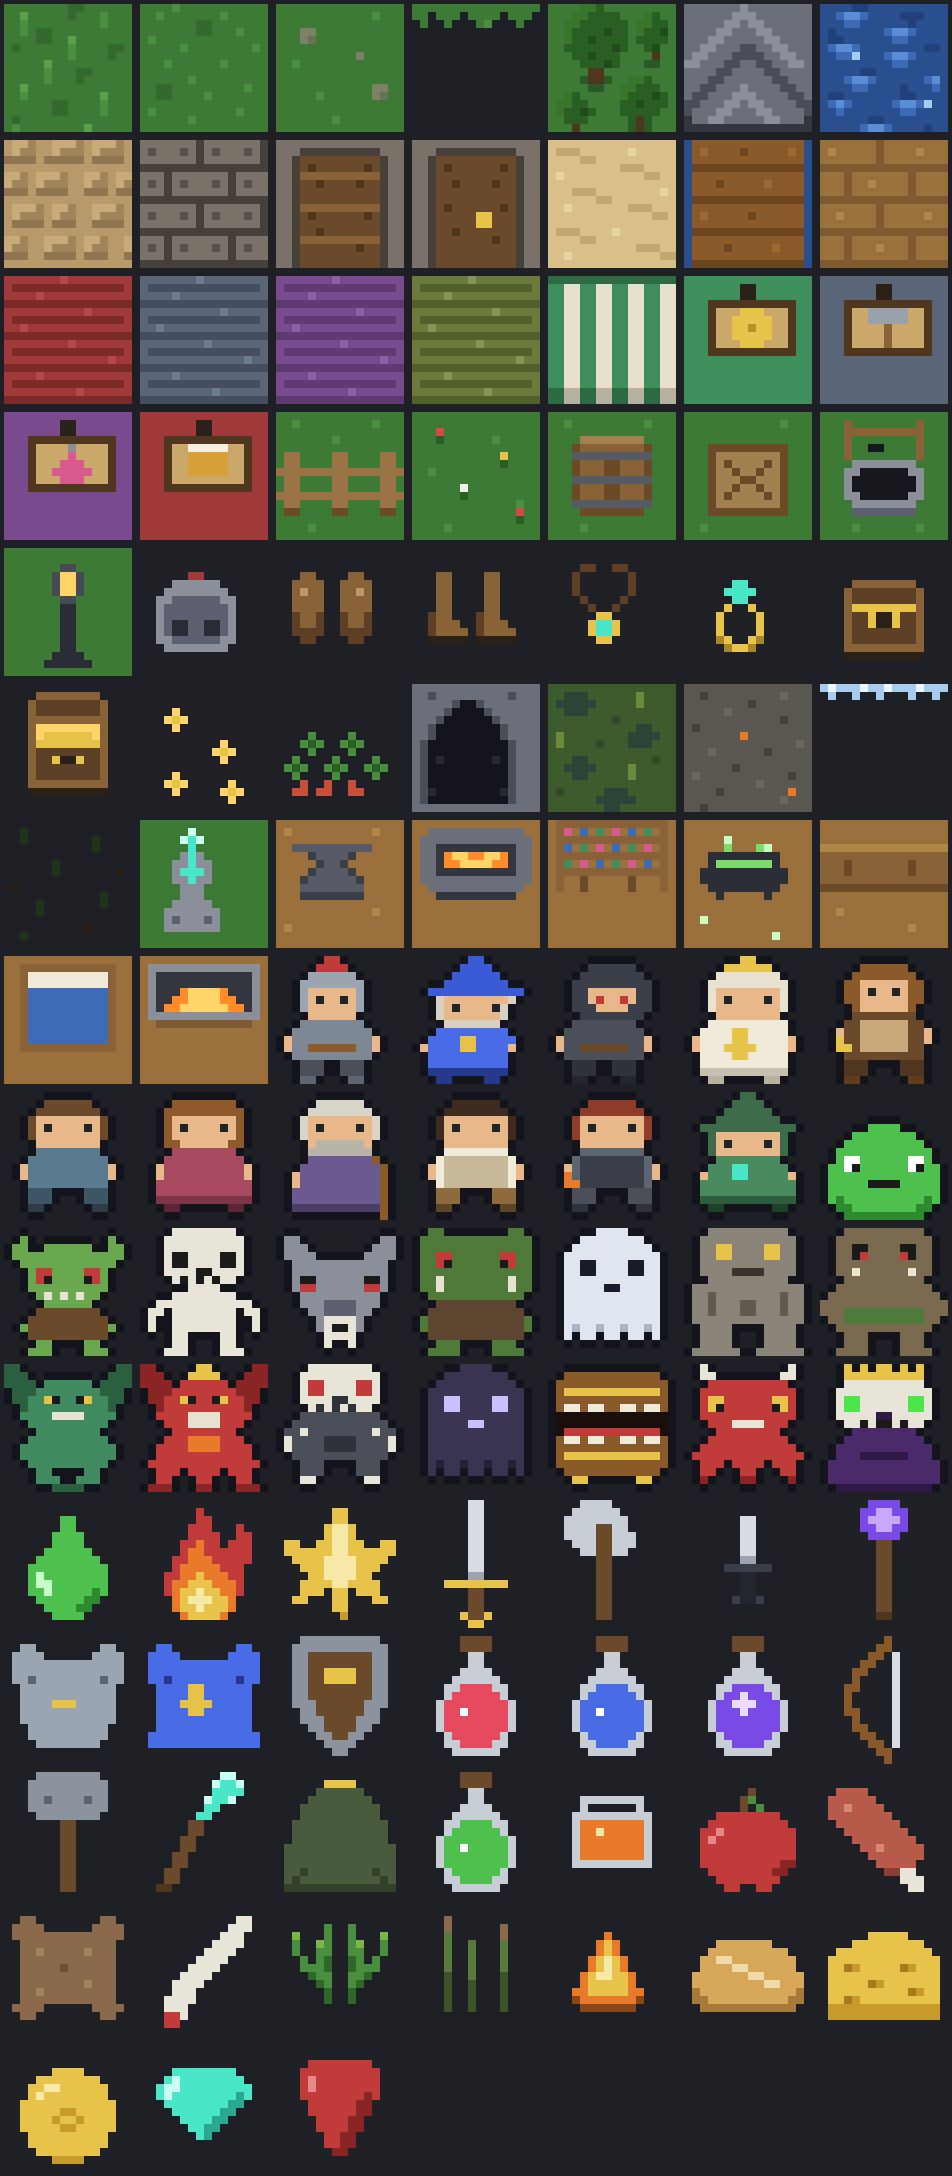
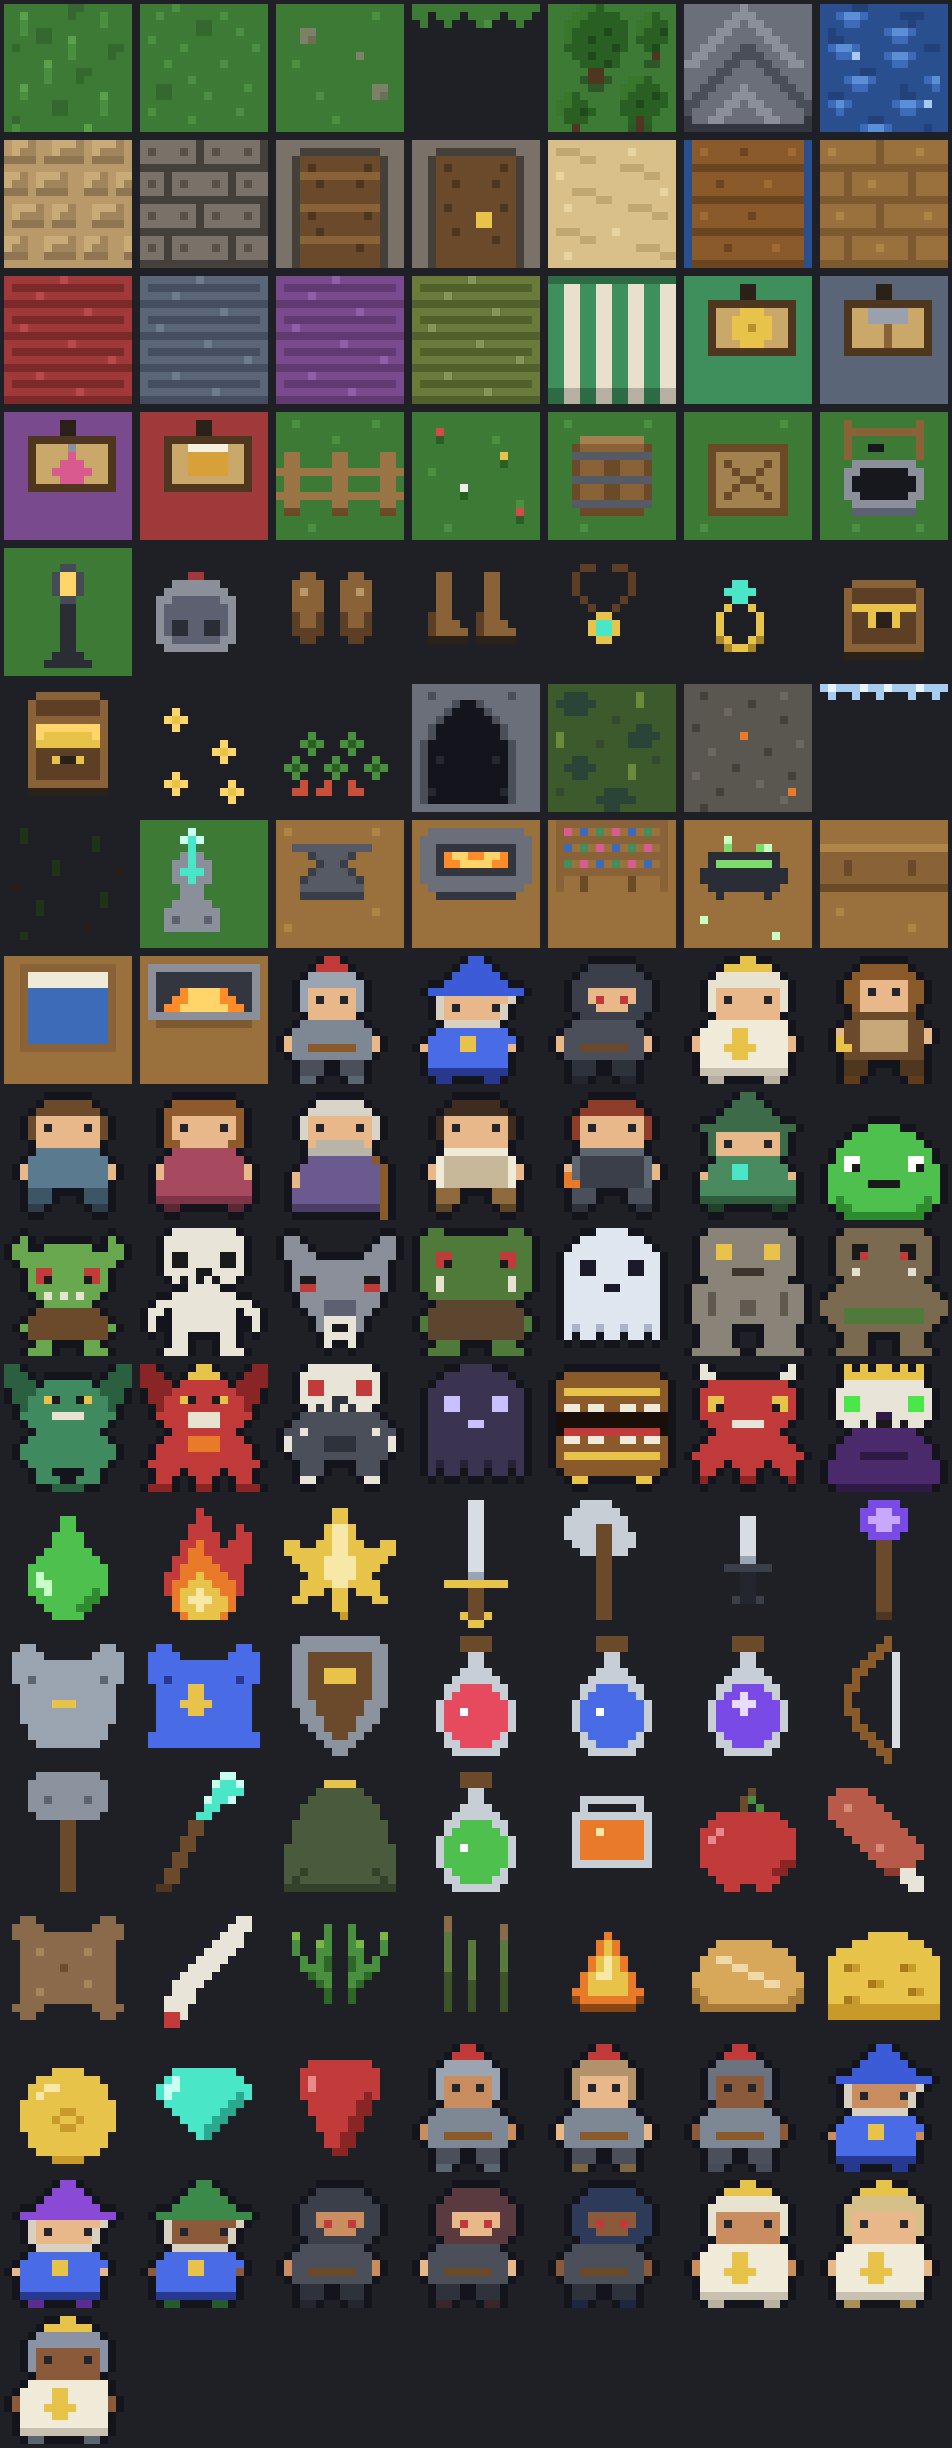
feat: character customization - four palette looks per class (v0.31 Mirror Mirror)
The generator emits skin/outfit palette swaps per hero (same grids),
hero.look stores the choice additively, heroSprite() resolves it, and
every surface follows: world walk, battle, inventory doll, creation
preview with a four-swatch picker.

diff --git a/src/ui/screens/CharacterCreation.tsx b/src/ui/screens/CharacterCreation.tsx
@@ -25,13 +25,21 @@ const STAT_MAX = Object.fromEntries(
   STAT_ROWS.map((row) => [row.key, Math.max(...Object.values(ROLES).map((r) => r.baseStats[row.key]))]),
 ) as Record<(typeof STAT_ROWS)[number]["key"], number>;
 
+/** Palette-swap looks per role: 0 is the classic, 1-3 swap skin and outfit. */
+const LOOKS = [0, 1, 2, 3];
+
+function lookSprite(base: string, look: number): string {
+  return look ? `${base}_l${look}` : base;
+}
+
 type CharacterCreationProps = {
-  onCreate: (name: string, roleId: RoleId) => void;
+  onCreate: (name: string, roleId: RoleId, look: number) => void;
 };
 
 export function CharacterCreation({ onCreate }: CharacterCreationProps) {
   const [name, setName] = useState("");
   const [roleId, setRoleId] = useState<RoleId>("warrior");
+  const [look, setLook] = useState(0);
   const role = ROLES[roleId];
   const base = import.meta.env.BASE_URL;
 
@@ -62,10 +70,22 @@ export function CharacterCreation({ onCreate }: CharacterCreationProps) {
             <span
               className="role-portrait-art"
               style={{
-                backgroundImage: `url(${base}sprites/${role.sprite}_walk.png)`,
+                backgroundImage: `url(${base}sprites/${lookSprite(role.sprite, look)}_walk.png)`,
                 backgroundSize: "384px 96px",
               }}
             />
+            <div className="look-row" role="radiogroup" aria-label="Look">
+              {LOOKS.map((i) => (
+                <button
+                  key={i}
+                  className={`look-swatch ${i === look ? "selected" : ""}`}
+                  aria-label={`Look ${i + 1}`}
+                  onClick={() => setLook(i)}
+                >
+                  <Sprite name={lookSprite(role.sprite, i)} size={28} alt="" />
+                </button>
+              ))}
+            </div>
             <span className="role-portrait-name">{name.trim() || "..."}</span>
             <span className="role-portrait-class">{role.name}</span>
           </div>
@@ -113,7 +133,7 @@ export function CharacterCreation({ onCreate }: CharacterCreationProps) {
         <button
           className="btn btn-primary"
           disabled={name.trim().length === 0}
-          onClick={() => onCreate(name.trim(), roleId)}
+          onClick={() => onCreate(name.trim(), roleId, look)}
         >
           Begin the climb
         </button>

diff --git a/src/game/hero/character.test.ts b/src/game/hero/character.test.ts
@@ -1,5 +1,5 @@
 import { describe, expect, it } from "vitest";
-import { applyLevelUps, applyStatPoint, carryCapacity, carriedWeight, createHero, resourceLabel, staminaRegen, STAT_POINTS_PER_LEVEL, xpToNext } from "./character";
+import { applyLevelUps, applyStatPoint, carryCapacity, carriedWeight, createHero, resourceLabel, staminaRegen, STAT_POINTS_PER_LEVEL, xpToNext, heroSprite } from "./character";
 import { getItem } from "../economy/items";
 import { createGear } from "../economy/rarity";
 import { rootNode } from "./skillTree";
@@ -97,5 +97,21 @@ describe("resources", () => {
     applyStatPoint(mage, "endurance");
     expect(mage.stats.maxHp).toBe(29);
     expect(mage.stats.maxMp).toBe(mPool);
+  });
+});
+
+describe("hero looks", () => {
+  it("stores the chosen look and resolves the variant sprite", () => {
+    const classic = createHero("Tess", "warrior");
+    expect(heroSprite(classic)).toBe("hero_warrior");
+    const styled = createHero("Tess", "mage", 2);
+    expect(styled.look).toBe(2);
+    expect(heroSprite(styled)).toBe("hero_mage_l2");
+  });
+
+  it("old saves without a look wear the classic", () => {
+    const hero = createHero("Vet", "rogue");
+    delete (hero as { look?: number }).look;
+    expect(heroSprite(hero)).toBe("hero_rogue");
   });
 });

diff --git a/e2e/fixpack.spec.ts b/e2e/fixpack.spec.ts
@@ -53,3 +53,18 @@ test('a chat is one keypress away, even facing the wrong way', async ({ page }) 
   await page.keyboard.press('e')
   await expect(page.getByTestId('dialogue')).toContainText('Elder Maren')
 })
+
+test('a hero can pick a look and wears it into the world', async ({ page }) => {
+  await page.goto('./')
+  await page.getByRole('button', { name: 'New Game' }).click()
+  await expect(page.locator('.look-swatch')).toHaveCount(4)
+  await page.getByRole('button', { name: 'Look 3' }).click()
+  await page.getByPlaceholder('Dragonsbane...').fill('Styled')
+  await page.getByRole('button', { name: 'Begin the climb' }).click()
+  await page.getByRole('button', { name: 'Set out' }).click()
+  await expect(page.getByTestId('world-hero')).toBeVisible()
+  // the choice survives the save round-trip
+  await page.reload()
+  await page.getByRole('button', { name: 'Continue' }).click()
+  await expect(page.getByTestId('world-hero')).toBeVisible()
+})

diff --git a/src/app/index.css b/src/app/index.css
@@ -259,6 +259,21 @@ body {
     background-position-x: -384px;
   }
 }
+.look-row {
+  display: flex;
+  gap: 5px;
+}
+.look-swatch {
+  font: inherit;
+  padding: 3px;
+  background: #0d0e13;
+  border: 2px solid var(--border);
+  cursor: pointer;
+  line-height: 0;
+}
+.look-swatch.selected {
+  border-color: var(--accent);
+}
 .role-portrait-name {
   color: var(--accent);
   max-width: 124px;

diff --git a/src/app/changelog.ts b/src/app/changelog.ts
@@ -11,6 +11,16 @@ export type Release = {
  */
 export const CHANGELOG: Release[] = [
   {
+    version: "0.31.0",
+    date: "2026-07-17",
+    codename: "Mirror Mirror",
+    notes: [
+      "Character customization! Pick your hero's look at creation: four palette styles per class - skin tones and outfit colors, the retro way",
+      "Your look follows you everywhere: the world, battles, the inventory doll",
+      "Old heroes keep their classic look; new ones choose",
+    ],
+  },
+  {
     version: "0.30.0",
     date: "2026-07-17",
     codename: "A Fresh Coat",

diff --git a/src/game/hero/character.ts b/src/game/hero/character.ts
@@ -12,11 +12,12 @@ export function xpToNext(level: number): number {
 /** Combat-stat points banked per level, spent by the player. */
 export const STAT_POINTS_PER_LEVEL = 5;
 
-export function createHero(name: string, roleId: RoleId): Hero {
+export function createHero(name: string, roleId: RoleId, look = 0): Hero {
   const role = ROLES[roleId];
   return {
     name,
     roleId,
+    look,
     level: 1,
     xp: 0,
     xpToNext: xpToNext(1),
@@ -50,6 +51,12 @@ export function applyLevelUps(hero: Hero): number {
     gained += 1;
   }
   return gained;
+}
+
+/** The hero's sprite, look applied: palette-swap variants share one grid. */
+export function heroSprite(hero: Hero): string {
+  const base = ROLES[hero.roleId].sprite;
+  return hero.look ? `${base}_l${hero.look}` : base;
 }
 
 export function gearByUid(gear: GearInstance[], uid: string | undefined): GearInstance | null {

diff --git a/src/render/battleRenderer.ts b/src/render/battleRenderer.ts
@@ -1,6 +1,6 @@
 import { Application, Assets, Container, Graphics, Sprite, type Texture } from "pixi.js";
-import { ROLES } from "../game/hero/roles";
 import type { GameState } from "../game/types";
+import { heroSprite } from "../game/hero/character";
 import { sliceSheet } from "./pixiUtils";
 import { pixelText } from "./pixelFont";
 
@@ -58,10 +58,10 @@ export class BattleRenderer {
     this.app = app;
     host.appendChild(app.canvas);
 
-    const role = ROLES[state.hero?.roleId ?? "warrior"];
+    const heroName = state.hero ? heroSprite(state.hero) : "hero_warrior";
     const heroSheet: Texture = await Assets.load({
-      alias: `${role.sprite}_walk`,
-      src: `${import.meta.env.BASE_URL}sprites/${role.sprite}_walk.png`,
+      alias: `${heroName}_walk`,
+      src: `${import.meta.env.BASE_URL}sprites/${heroName}_walk.png`,
     });
     if (this.destroyed) return;
 

diff --git a/src/render/worldActors.ts b/src/render/worldActors.ts
@@ -1,5 +1,5 @@
 import { Assets, type Container, Graphics, Sprite, type Texture } from "pixi.js";
-import { ROLES } from "../game/hero/roles";
+import { heroSprite } from "../game/hero/character";
 import type { GameState } from "../game/types";
 import { spawnSpecies } from "../game/combat/encounters";
 import { getMonster } from "../game/combat/monsters";
@@ -99,8 +99,8 @@ export class ActorLayer {
     for (const entry of this.npcs) container.addChild(entry.sprite);
     for (const entry of this.monsters) container.addChild(entry.sprite);
 
-    const role = ROLES[state.hero?.roleId ?? "warrior"];
-    this.heroFrames = this.bank.frames.get(`${role.sprite}_walk`) ?? null;
+    const sheet = state.hero ? heroSprite(state.hero) : "hero_warrior";
+    this.heroFrames = this.bank.frames.get(`${sheet}_walk`) ?? null;
     this.hero = new Sprite(this.heroFrames?.[0]);
     this.hero.anchor.set(0.5, 0);
     container.addChild(this.hero);

diff --git a/src/ui/screens/Battle.tsx b/src/ui/screens/Battle.tsx
@@ -1,8 +1,7 @@
 import { lazy, Suspense, useEffect, useRef } from "react";
 import { getItem } from "../../game/economy/items";
-import { resourceLabel } from "../../game/hero/character";
+import { heroSprite as heroSpriteOf, resourceLabel } from "../../game/hero/character";
 import { getLevel } from "../../game/hero/levels";
-import { ROLES } from "../../game/hero/roles";
 import { getHeroSkills } from "../../game/hero/skillTree";
 import type { StatusEffect } from "../../game/types";
 import { USE_PIXI } from "../../render/flag";
@@ -35,7 +34,6 @@ export function Battle() {
   const state = useGameState();
   const hero = useHero();
   const battle = useBattle();
-  const role = ROLES[hero.roleId];
   const dungeon = getLevel(battle.dungeonLevel);
   const logRef = useRef<HTMLDivElement>(null);
 
@@ -80,7 +78,7 @@ export function Battle() {
         <div className="combatant">
           {battle.wild && !USE_PIXI && <span className="ambush-mark" aria-hidden="true">!</span>}
           {!USE_PIXI && (
-            <Sprite name={role.sprite} size={96} alt={hero.name} className={battle.phase === "lost" ? "fallen" : ""} />
+            <Sprite name={heroSpriteOf(hero)} size={96} alt={hero.name} className={battle.phase === "lost" ? "fallen" : ""} />
           )}
           <div className="combatant-name">{hero.name}</div>
           <StatBar label="HP" value={hero.hp} max={hero.stats.maxHp} color="var(--hp)" />

diff --git a/src/ui/panels/Inventory.tsx b/src/ui/panels/Inventory.tsx
@@ -1,11 +1,10 @@
 import { useState } from "react";
-import { carriedWeight, carryCapacity, gearByUid, grantedStat, totalDefense, weaponOf } from "../../game/hero/character";
+import { carriedWeight, carryCapacity, gearByUid, grantedStat, heroSprite as heroSpriteOf, totalDefense, weaponOf } from "../../game/hero/character";
 import { getItem } from "../../game/economy/items";
 import { itemStatLine } from "../../game/economy/itemStats";
 import { gearDamage, gearItem, gearName, gearValue } from "../../game/economy/rarity";
 import { JOB_NAMES, JOB_STATIONS } from "../../game/economy/jobs";
 import { canCraft, RECIPES } from "../../game/economy/recipes";
-import { ROLES } from "../../game/hero/roles";
 import type { EquippedSlot, GrantStat, ItemCategory } from "../../game/types";
 import { dispatch, useGameState, useHero } from "../../state/store";
 import { Sprite } from "../widgets/Sprite";
@@ -85,7 +84,7 @@ export function Inventory() {
           <div className="doll-column">
             <div className="doll">
               <div className="doll-portrait" aria-hidden="true">
-                <Sprite name={ROLES[hero.roleId].sprite} size={72} />
+                <Sprite name={heroSpriteOf(hero)} size={72} />
               </div>
               {DOLL_SLOTS.map(({ slot, label }, i) => {
                 const instance = gearByUid(state.gear, state.equipped[slot]);

diff --git a/src/ui/screens/WorldScreen.tsx b/src/ui/screens/WorldScreen.tsx
@@ -1,5 +1,5 @@
 import { lazy, Suspense, useEffect, useState } from "react";
-import { ROLES } from "../../game/hero/roles";
+import { heroSprite as heroSpriteOf } from "../../game/hero/character";
 import { dispatch, useGameState, useWorld } from "../../state/store";
 import { getMap } from "../../world/maps/index";
 import { spawnSpecies } from "../../game/combat/encounters";
@@ -60,7 +60,7 @@ export function WorldScreen() {
   const state = useGameState();
   const world = useWorld().position;
   const map = getMap(world.mapId);
-  const heroSprite = ROLES[state.hero?.roleId ?? "warrior"].sprite;
+  const heroSprite = state.hero ? heroSpriteOf(state.hero) : "hero_warrior";
   const tilePx = ART_PX * useTileScale();
 
   // Someone to talk to: a prompt floats over the NPC beside the hero -

diff --git a/src/app/App.tsx b/src/app/App.tsx
@@ -269,7 +269,7 @@ function Screen({
         />
       );
     case "create":
-      return <CharacterCreation onCreate={(name, roleId) => dispatch({ type: "CREATE_HERO", name, roleId })} />;
+      return <CharacterCreation onCreate={(name, roleId, look) => dispatch({ type: "CREATE_HERO", name, roleId, look })} />;
     case "battle":
       return <Battle />;
     case "world":